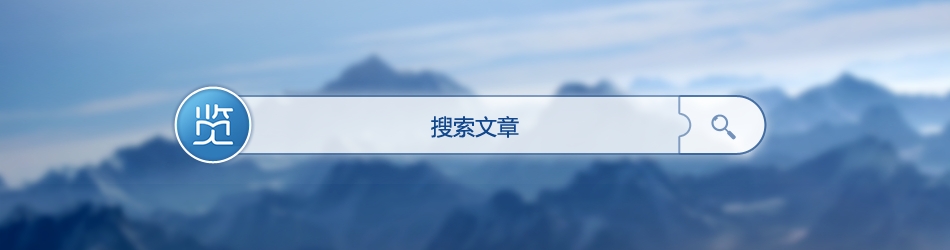
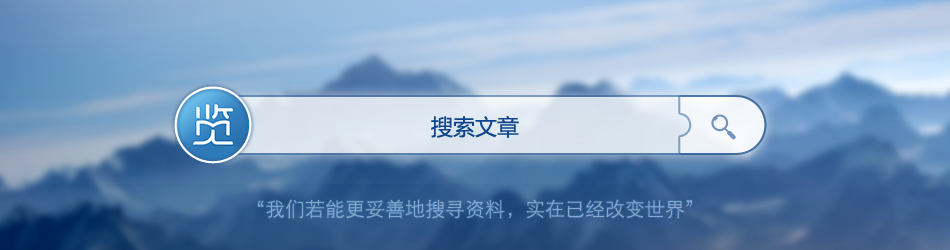
blog update

Changed region(s): [[0.2747, 0.784, 0.7326, 0.868]]

diff --git a/_posts/upgrade-search.md b/_posts/upgrade-search.md
@@ -1,0 +1,72 @@
+![Banner](/img/6/6-Banner.png)
+
+「一览」搜索功能也也也升级啦！
+
+
+曾听过一句话：“我们若能更妥善地搜寻资料，实在已经改变世界”。
+
+而在使用 RSS 阅读、收藏来过滤海量资讯、聚合优质信息的同时，也逐渐成为了另一方信息海洋。
+
+这使搜寻资料变得困难，为了可以更快，更简单，更准确的找到你需要的文章，新的搜索功能带来了文章搜索！
+
+不仅可以随时查找读过的、收藏的、某个站点的亦或是全站的文章。
+
+还可以利用搜索，快速了解到自己关注的站点对某个热点的观点评价。
+
+这对一个好读书，求甚解的人来说无疑是又一个效率加成。
+
+此外，我们还将界面上的两个搜索框进行合并，统一放在了左上角，使入口更明确。
+
+下面简单说明一下使用方法。
+
+### 如何搜收藏/已读/站点等奇奇怪怪的文章
+
+目前，搜索的入口有两个，一是直接在订阅界面上方的搜索框，二是去专门的搜索页面 http://www.yilan.io/search 搜索。
+
+先讲讲方法一：
+
+与之前一样，在搜索框内输入关键字后，弹出的下拉框会列出相关的用户、站点、文章等信息。
+
+点击“显示更多”或者“在所有订阅源中搜索相关文章”可以跳转到详细的搜索结果界面查看。
+
+（普通用户默认只会显示一篇搜索到的文章，如需查看全部结果，请升级 VIP ，小小支持我们一下！）
+
+同时，左侧 ⑤ 的订阅列表也会实时筛选出已订阅的相关站点。
+
+![搜索已订阅站点及其文章](/img/6/6-searchbox-sub-article.png)
+
+不过，要注意左侧划红线的位置，目前是选中了“所有订阅”，如果改选为“我的收藏”，比较细心的朋友就会发现搜索框内的提示文字已经变为“搜索已收藏的文章”。
+
+此时输入关键字后，右侧 ③ 处显示的文章预览结果会从“已订阅站点的文章”变为“已收藏文章”的结果。
+
+![搜索框提示](/img/6/6-searchbox-star-tips.png)
+
+![搜索已收藏的文章](/img/6/6-searchbox-star-article.png)
+
+要搜索已读的文章时，则要点击右上角的“齿轮”按钮，切换显示为“已读文章”，然后输入搜索。
+
+![搜索框提示](/img/6/6-searchbox-read-tips.png)
+
+有些情况下，我们只需要搜索某个站点内的文章，此时必须先进入该站点页面，再向搜索框内输入关键字搜索。
+
+![搜索框提示](/img/6/6-searchbox-site-tips.png)
+
+方法二是由 http://www.yilan.io/search 进入搜索页面
+
+如下面的搜索“iPhone SE”时，列出在“已订阅站点”内的结果，若需切换搜索范围，点击一旁的“三角形”后选择便可。
+
+![搜索页面选项](/img/6/6-searchpage-for-article.png)
+
+---
+
+以上便是搜索功能升级后的简要介绍，抽空去试试吧！
+
+如果你有什么意见或者建议，欢迎反馈！
+
+谢谢支持！
+
+
+
+
+
+
